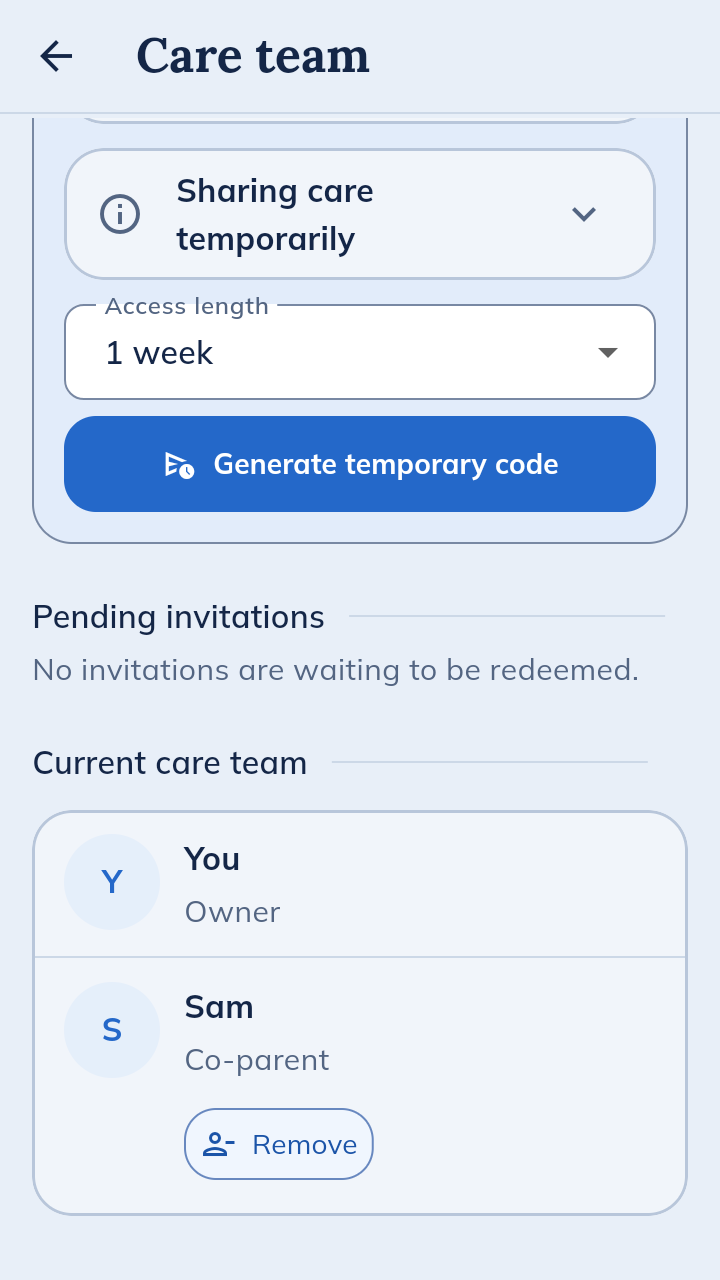
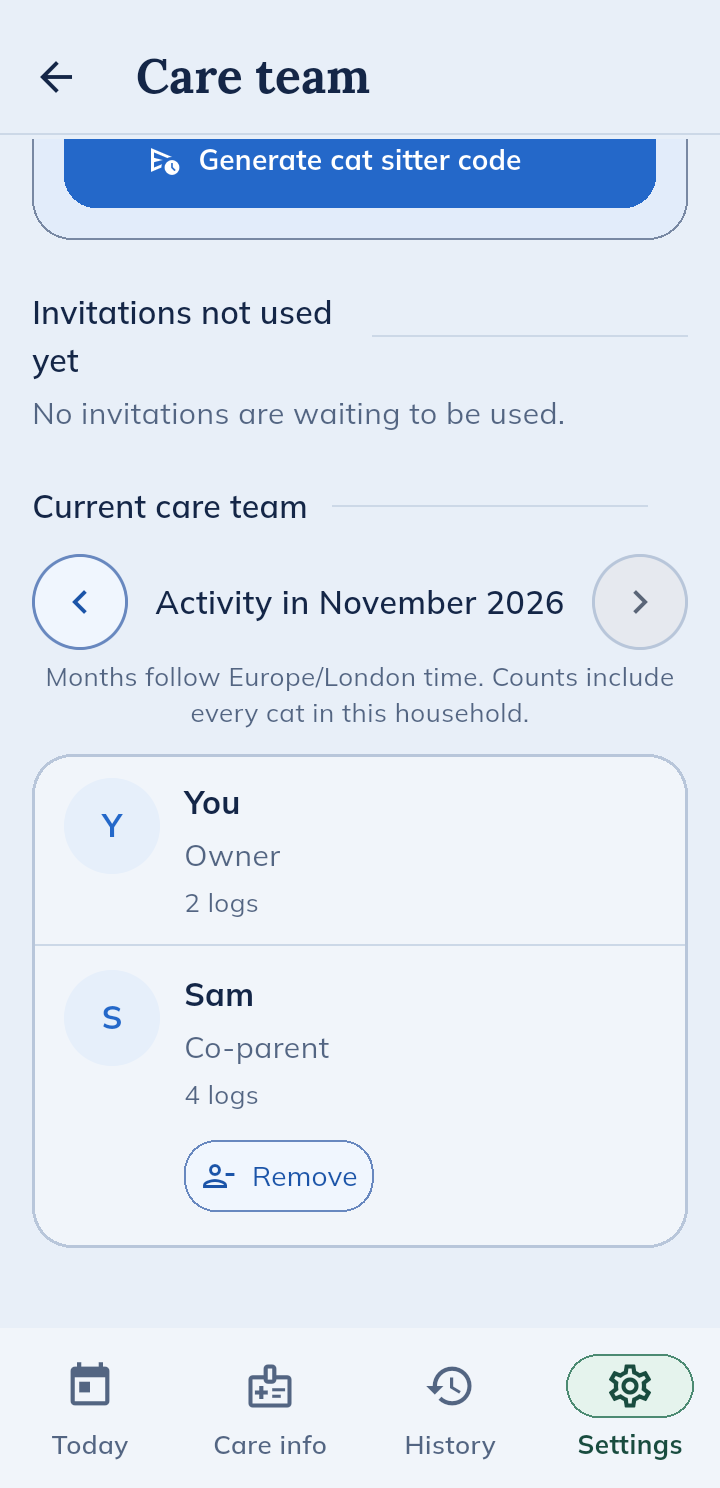
feat: show OurCat 1.2.0 (reactions, quicker reminders, Health records, History views)
Screenshots recaptured from the 1.2.0 Android app (features-guide demo seed,
360 dp at 2x): compact cards, Like on others' entries, new bottom bar and
Care team wording. Copy adds Like and emoji, Common reminders, Health records
and Day log/Trends/Summary; alt texts describe the new pictures.

diff --git a/features.html b/features.html
@@ -14,13 +14,13 @@
 <header class="site-header"><div class="wrap header-inner"><a class="brand" href="/" aria-label="OurCat home">OurCat<span aria-hidden="true">.</span></a><a class="header-cta" href="https://docs.google.com/forms/d/e/1FAIpQLSfE7T2NDWCrKjbO0EXnv6gYh4boQH9e-d9MlrtzAwvURb2s_Q/viewform">Request invitation</a><nav aria-label="Main navigation"><a href="features" aria-current="page">What it does</a><a href="test">How it works</a><a href="feedback">Feedback</a><a href="help">Help</a></nav></div></header>
 <main id="main" tabindex="-1" class="wrap">
 <div class="cta-zone">
-<div class="story-hero"><div class="sh-intro"><h1>What it actually does</h1><p class="lead">Here’s the app as it is at the moment, through a day of looking after a cat called Miso.</p><div class="actions"><a class="button" href="https://docs.google.com/forms/d/e/1FAIpQLSfE7T2NDWCrKjbO0EXnv6gYh4boQH9e-d9MlrtzAwvURb2s_Q/viewform">Request an invitation <span aria-hidden="true">↗</span></a><a href="test">How it works</a></div><p class="fine">It’s free. Android and iPhone/iPad invitations are available.</p></div><figure class="shot sh-shot"><div class="screen"><img src="assets/features/today.webp" width="720" height="1308" alt="Today for Miso: water and litter reminders with Done buttons, and a log showing a 40 g breakfast given by Sam." fetchpriority="high"></div></figure><div class="sh-moment"><p class="eyebrow-time">Morning</p><h2>Nobody feeds the cat twice</h2><p>Sam feeds Miso before work and logs it. Later you open Today and see breakfast was 40 g, and that Miso finished it all.</p></div></div>
+<div class="story-hero"><div class="sh-intro"><h1>What it actually does</h1><p class="lead">Here’s the app as it is at the moment, through a day of looking after a cat called Miso.</p><div class="actions"><a class="button" href="https://docs.google.com/forms/d/e/1FAIpQLSfE7T2NDWCrKjbO0EXnv6gYh4boQH9e-d9MlrtzAwvURb2s_Q/viewform">Request an invitation <span aria-hidden="true">↗</span></a><a href="test">How it works</a></div><p class="fine">It’s free. Android and iPhone/iPad invitations are available.</p></div><figure class="shot sh-shot"><div class="screen"><img src="assets/features/today.webp" width="720" height="1488" alt="Today for Miso: fresh water (late) and evening meal reminders with Done buttons, then today’s log: drinking seen by you, and a joint supplement given by Sam with a Like button." fetchpriority="high"></div></figure><div class="sh-moment"><p class="eyebrow-time">Morning</p><h2>Nobody gives the medicine twice</h2><p>Sam gives Miso her joint supplement before work and logs it. Later you open Today, see it’s been given, and tap Like to say thanks, or hold Like to pick another emoji.</p></div></div>
 <ol class="day-story" aria-label="The rest of the day with Miso">
-<li class="day-row flip"><div><p class="eyebrow-time">Around lunchtime</p><h2>Nothing slips through</h2><p>The water’s gone late. Reminders lists what’s due today, and whoever gets to it taps Done. It’s a test version, so keep your usual reminders for medicine.</p></div><figure class="shot"><div class="screen"><img src="assets/features/reminders.webp" width="720" height="996" alt="Reminders for Miso: fresh water (late), litter check and evening meal, each with a Done button." loading="lazy"></div></figure></li>
-<li class="day-row"><div><p class="eyebrow-time">When something looks off</p><h2>The vet’s number, one tap away</h2><p>Care info is a cheat sheet for your cat, with the emergency vet’s and usual vet’s numbers. Tap one to ring. This is the bit I wished I’d had when Tokyo had an accident.</p></div><figure class="shot"><div class="screen"><img src="assets/features/care-info.webp" width="720" height="1308" alt="Care info for Miso: an emergency vet and a usual vet, with tappable phone numbers." loading="lazy"></div></figure></li>
-<li class="day-row flip"><div><p class="eyebrow-time">Friday, going away</p><h2>A sitter, for as long as you choose</h2><p>Give a friend access for three days, a week or a month. They can log what they do and see the routine, but can’t change your settings. When the time’s up, their access ends by itself.</p></div><figure class="shot"><div class="screen"><img src="assets/features/care-team.webp" width="720" height="1280" alt="Care team: a temporary access code set to 1 week, with you as owner and Sam as co-parent." loading="lazy"></div></figure></li>
+<li class="day-row flip"><div><p class="eyebrow-time">Around lunchtime</p><h2>Nothing slips through</h2><p>The water’s gone late. Reminders lists what’s due today, and whoever gets to it taps Done. Setting one up is quick: Common reminders has ready-made ones, like Clean litter tray. It’s a test version, so keep your usual reminders for medicine.</p></div><figure class="shot"><div class="screen"><img src="assets/features/reminders.webp" width="720" height="900" alt="Reminders for Miso: fresh water (late), evening meal and litter check, each with a Done button." loading="lazy"></div></figure></li>
+<li class="day-row"><div><p class="eyebrow-time">When something looks off</p><h2>The vet’s number, one tap away</h2><p>Care info is a cheat sheet for your cat, with the emergency vet’s and usual vet’s numbers. Tap one to ring. Health records, like vaccinations, are a tap away too. This is the bit I wished I’d had when Tokyo had an accident.</p></div><figure class="shot"><div class="screen"><img src="assets/features/care-info.webp" width="720" height="1488" alt="Care info for Miso: the emergency vet and usual vet with tappable phone numbers, an urgent contact, and important care details." loading="lazy"></div></figure></li>
+<li class="day-row flip"><div><p class="eyebrow-time">Friday, going away</p><h2>A sitter, for as long as you choose</h2><p>Give a friend access for three days, a week or a month. They can log what they do and see the routine, but can’t change your settings. When the time’s up, their access ends by itself.</p></div><figure class="shot"><div class="screen"><img src="assets/features/care-team.webp" width="720" height="1488" alt="Care team: a Generate cat sitter code button, then November’s activity: you as owner with 2 logs and Sam as co-parent with 4." loading="lazy"></div></figure></li>
 <li class="day-cta"><div class="inline-cta"><p>Sharing is the bit I most want to see working. Try it with a partner or sitter.</p><a class="button" href="https://docs.google.com/forms/d/e/1FAIpQLSfE7T2NDWCrKjbO0EXnv6gYh4boQH9e-d9MlrtzAwvURb2s_Q/viewform">Request an invitation <span aria-hidden="true">↗</span></a></div></li>
-<li class="day-row"><div><p class="eyebrow-time">Back home</p><h2>Who did what, and when</h2><p>History shows who did what on any day. If someone forgot to log something you can add it after, and you can save a CSV of a date range if the vet asks.</p></div><figure class="shot"><div class="screen"><img src="assets/features/history.webp" width="720" height="1280" alt="History for 22 October: breakfast logged by you, drinking logged by Sam and marked Edited, plus CSV export." loading="lazy"></div></figure></li>
+<li class="day-row"><div><p class="eyebrow-time">Back home</p><h2>Who did what, and when</h2><p>History’s Day log shows who did what on any day, and Trends and Summary show how things have gone over time. If someone forgot to log something you can add it after, and you can save a CSV of a date range if the vet asks.</p></div><figure class="shot"><div class="screen"><img src="assets/features/history.webp" width="720" height="1488" alt="History’s Day log for 15 November: breakfast logged by you, and an evening meal and a refilled water bowl logged by Sam, the last marked Edited, each of Sam’s with a Like button." loading="lazy"></div></figure></li>
 <li class="day-row flip"><div><p class="eyebrow-time">More than one cat</p><h2>Up to three cats</h2><p>Tap the name at the top to switch between cats. A household can have up to three for now.</p></div><figure class="shot"><div class="screen"><img src="assets/features/more-cats.webp" width="720" height="640" alt="Today with the cat menu open, listing Miso (selected) and Pip." loading="lazy"></div></figure></li>
 </ol>
 <div class="sticky-cta"><a class="button" href="https://docs.google.com/forms/d/e/1FAIpQLSfE7T2NDWCrKjbO0EXnv6gYh4boQH9e-d9MlrtzAwvURb2s_Q/viewform">Request an invitation <span aria-hidden="true">↗</span></a></div>

diff --git a/index.html b/index.html
@@ -15,7 +15,7 @@
 <main id="main" tabindex="-1" class="wrap home">
 
 <div class="cta-zone">
-<section class="hero" aria-labelledby="home-title"><div class="hero-copy"><h1 id="home-title">Keep track of your cat’s care, together</h1><p class="lead">Record meals, medicine and vet visits, and see what everyone caring for your cat has done.</p><ul class="points"><li>Everyone sees the same record</li><li>Sitter access that ends by itself</li><li>Emergency vet numbers one tap away</li></ul><p class="status"><strong>Early access requests are open</strong> Android and iPhone/iPad invitations are available. I’ll email your joining details and reply to your request within a day.</p><div class="actions"><a class="button" href="https://docs.google.com/forms/d/e/1FAIpQLSfE7T2NDWCrKjbO0EXnv6gYh4boQH9e-d9MlrtzAwvURb2s_Q/viewform">Request an invitation <span aria-hidden="true">↗</span></a></div><p class="fine">A short Google Form, no sign-in needed. For ages 16+ with Android, iPhone or iPad, in the UK, US, Canada or Australia. Prefer email? <a href="mailto:mycatapps@gmail.com?subject=OurCat%20test%20invitation&amp;body=Device%28s%29%3A%20Android%20%2F%20iPhone%20%2F%20iPad%0AInvitation%20email%20%28Google%20Play%20address%20for%20Android%29%3A%20%0AGoogle%20Play%20country%20%28Android%29%3A%20%0AApp%20Store%20country%20%28iPhone%2FiPad%29%3A%20%0AAged%2016%20or%20over%20%28yes%2Fno%29%3A%20%0A%0AOptional%20question%3A%20">Write to me instead</a>.</p><p class="small"><a href="features">See what it does</a> <span class="separator" aria-hidden="true">·</span> <a href="test">How it works</a> <span class="separator" aria-hidden="true">·</span> <a href="join">Already invited?</a></p></div><figure class="app-preview" id="app-preview"><div class="screen"><img src="assets/today.png" width="720" height="1708" alt="OurCat’s Today screen for Miso: the 09:00 fresh-water reminder is completed and a litter check is due at 10:45. Below, today’s log: drinking seen and the water bowl refilled by you, and breakfast given by Sam at 08:00 with the note “Finished it all”." fetchpriority="high"></div><figcaption>The Today screen</figcaption></figure></section>
+<section class="hero" aria-labelledby="home-title"><div class="hero-copy"><h1 id="home-title">Keep track of your cat’s care, together</h1><p class="lead">Record meals, medicine and vet visits, and see what everyone caring for your cat has done.</p><ul class="points"><li>Everyone sees the same record</li><li>Sitter access that ends by itself</li><li>Emergency vet numbers one tap away</li></ul><p class="status"><strong>Early access requests are open</strong> Android and iPhone/iPad invitations are available. I’ll email your joining details and reply to your request within a day.</p><div class="actions"><a class="button" href="https://docs.google.com/forms/d/e/1FAIpQLSfE7T2NDWCrKjbO0EXnv6gYh4boQH9e-d9MlrtzAwvURb2s_Q/viewform">Request an invitation <span aria-hidden="true">↗</span></a></div><p class="fine">A short Google Form, no sign-in needed. For ages 16+ with Android, iPhone or iPad, in the UK, US, Canada or Australia. Prefer email? <a href="mailto:mycatapps@gmail.com?subject=OurCat%20test%20invitation&amp;body=Device%28s%29%3A%20Android%20%2F%20iPhone%20%2F%20iPad%0AInvitation%20email%20%28Google%20Play%20address%20for%20Android%29%3A%20%0AGoogle%20Play%20country%20%28Android%29%3A%20%0AApp%20Store%20country%20%28iPhone%2FiPad%29%3A%20%0AAged%2016%20or%20over%20%28yes%2Fno%29%3A%20%0A%0AOptional%20question%3A%20">Write to me instead</a>.</p><p class="small"><a href="features">See what it does</a> <span class="separator" aria-hidden="true">·</span> <a href="test">How it works</a> <span class="separator" aria-hidden="true">·</span> <a href="join">Already invited?</a></p></div><figure class="app-preview" id="app-preview"><div class="screen"><img src="assets/today.png" width="720" height="1488" alt="OurCat’s Today screen for Miso: fresh water is late and the evening meal is due at 18:00. Below, today’s log: drinking seen by you, and a joint supplement given by Sam, with a Like button." fetchpriority="high"></div><figcaption>The Today screen</figcaption></figure></section>
 
 <section class="section story" aria-labelledby="story-title"><figure class="print"><img src="assets/tokyo-wall.jpg" width="880" height="1100" alt="Tokyo, a black-and-white cat, sitting upright on a garden wall and looking off to one side." loading="lazy"><figcaption>Tokyo, supervising</figcaption></figure><div class="story-copy"><h2 id="story-title">How OurCat started</h2><p class="story-hello">Hi, I make OurCat. The black-and-white one in the photos is Tokyo.</p><p>Tokyo spends most days on a garden wall keeping an eye on the neighbourhood, or flat out on the bed. Looking after Tokyo still means remembering a surprising number of small things. When was the last vet visit? Has today’s medicine been given? Is that weight going up or down? For a long time, the answers were scattered between my phone, old messages and my memory.</p><p>Then Tokyo had an accident. I needed the vet’s number and the emergency vet’s details straight away, and I didn’t have them in one place. I never want to be in that spot again.</p><p>Sharing the care was the other half. My partner and I both look after Tokyo, and we’d regularly check with each other whether breakfast had happened. When friends cat-sit, I end up writing them a long message about food, medicine and who to ring if something goes wrong.</p><p>OurCat is how I’m fixing that for us. It’s still early days, which is why I’d love your help.</p><figure class="print print-small"><img src="assets/tokyo-stretch.jpg" width="900" height="600" alt="Tokyo stretched out full length on a green bedspread." loading="lazy"><figcaption>Off duty</figcaption></figure></div></section>
 
